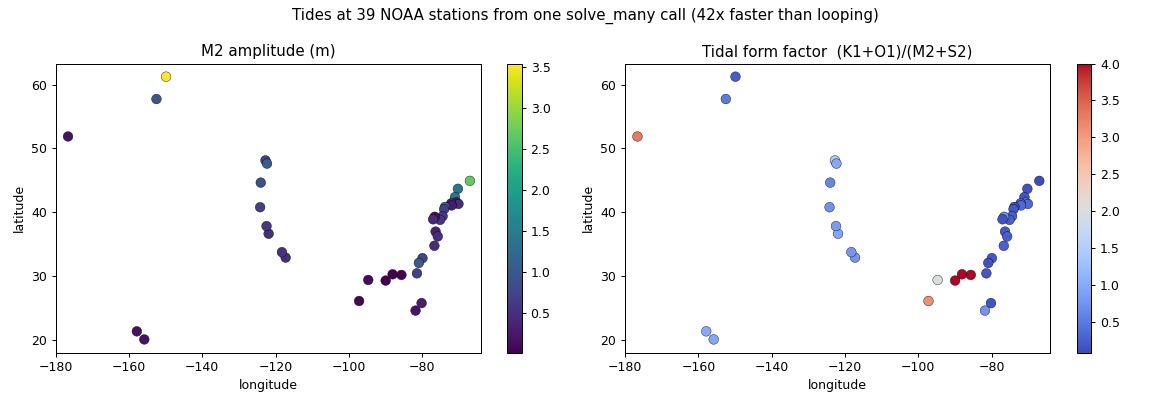
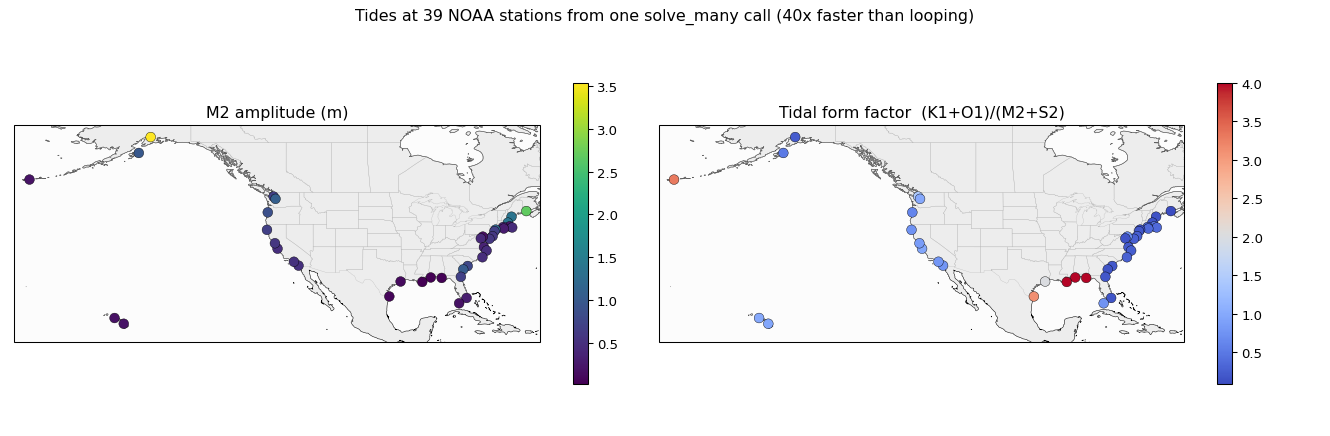
examples: add cartopy coastline basemap to the NOAA tide map
The 39-station map now draws land, coastlines, and state borders behind the
points so the geographic pattern is readable (cartopy is optional; the plot
falls back to plain lon/lat axes without it).

diff --git a/examples/gpu_batch_real.py b/examples/gpu_batch_real.py
@@ -61,22 +61,38 @@ print(f"\nlargest M2: {names[hi]} ({M2[hi]:.2f} m);  smallest: {names[lo]} ({M2[
 print(f"diurnal/mixed-diurnal stations (form>1.5): "
       f"{', '.join(np.asarray(names)[form > 1.5][:6])} ...")
 
-# --- maps ------------------------------------------------------------------
+# --- maps (with a coastline basemap if cartopy is available) --------------
 try:
     import matplotlib
     matplotlib.use("Agg")
     import matplotlib.pyplot as plt
-    fig, ax = plt.subplots(1, 2, figsize=(13, 4.5))
-    s0 = ax[0].scatter(lons, lats, c=M2, s=60, cmap="viridis", edgecolor="k", lw=0.3)
-    ax[0].set_title("M2 amplitude (m)"); fig.colorbar(s0, ax=ax[0])
-    s1 = ax[1].scatter(lons, lats, c=np.clip(form, 0, 4), s=60, cmap="coolwarm",
-                       edgecolor="k", lw=0.3)
-    ax[1].set_title("Tidal form factor  (K1+O1)/(M2+S2)"); fig.colorbar(s1, ax=ax[1])
-    for a in ax:
-        a.set_xlabel("longitude"); a.set_ylabel("latitude"); a.set_xlim(-180, -64)
+    try:
+        import cartopy.crs as ccrs
+        import cartopy.feature as cfeature
+        proj = ccrs.PlateCarree()
+        spk = {"projection": proj}
+    except ImportError:
+        proj = spk = None
+
+    fig, ax = plt.subplots(1, 2, figsize=(14, 4.6), subplot_kw=spk)
+    panels = [("M2 amplitude (m)", M2, "viridis"),
+              ("Tidal form factor  (K1+O1)/(M2+S2)", np.clip(form, 0, 4), "coolwarm")]
+    for a, (title, c, cmap) in zip(ax, panels):
+        if proj is not None:
+            a.add_feature(cfeature.LAND, facecolor="0.93")
+            a.add_feature(cfeature.OCEAN, facecolor="0.99")
+            a.add_feature(cfeature.COASTLINE, linewidth=0.4)
+            a.add_feature(cfeature.STATES, linewidth=0.2, edgecolor="0.7")
+            a.set_extent([-180, -64, 16, 64], crs=proj)
+            sc = a.scatter(lons, lats, c=c, s=55, cmap=cmap, edgecolor="k",
+                           lw=0.3, transform=proj, zorder=5)
+        else:
+            sc = a.scatter(lons, lats, c=c, s=55, cmap=cmap, edgecolor="k", lw=0.3)
+            a.set_xlim(-180, -64); a.set_xlabel("longitude"); a.set_ylabel("latitude")
+        a.set_title(title); fig.colorbar(sc, ax=a, shrink=0.8)
     fig.suptitle(f"Tides at {nstn} NOAA stations from one solve_many call "
                  f"({per*nstn/gpu_t:.0f}x faster than looping)")
-    fig.tight_layout(); fig.savefig(os.path.join(HERE, "noaa_tides.png"), dpi=90)
+    fig.tight_layout(); fig.savefig(os.path.join(HERE, "noaa_tides.png"), dpi=95)
     print("\nsaved figure -> examples/noaa_tides.png")
 except ImportError:
     print("(matplotlib not installed; skipping plot)")